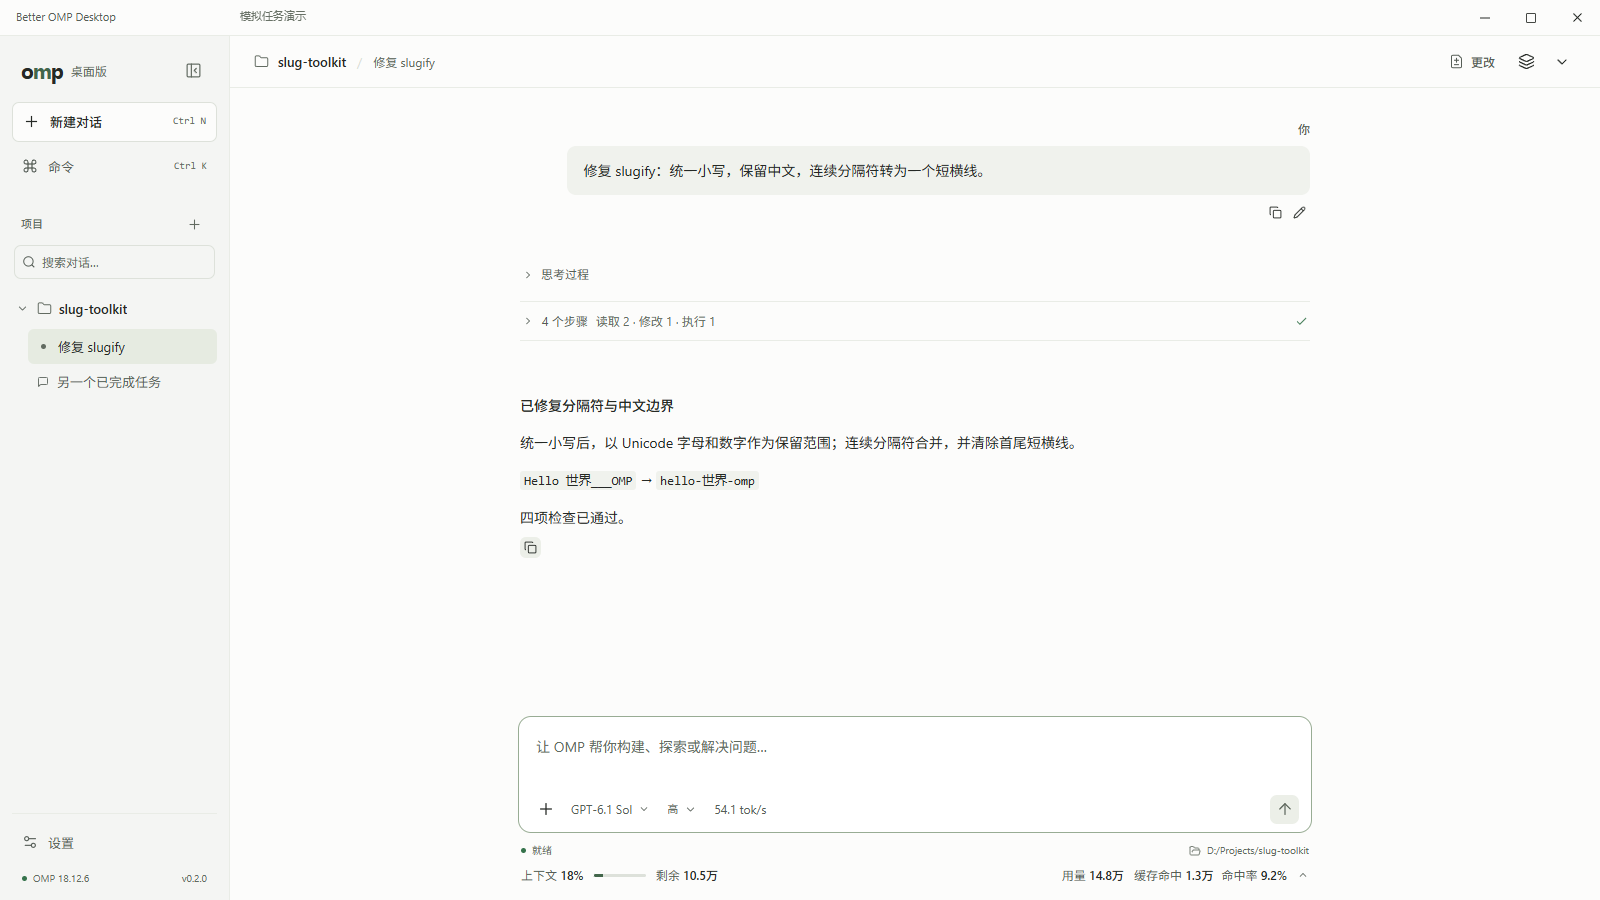
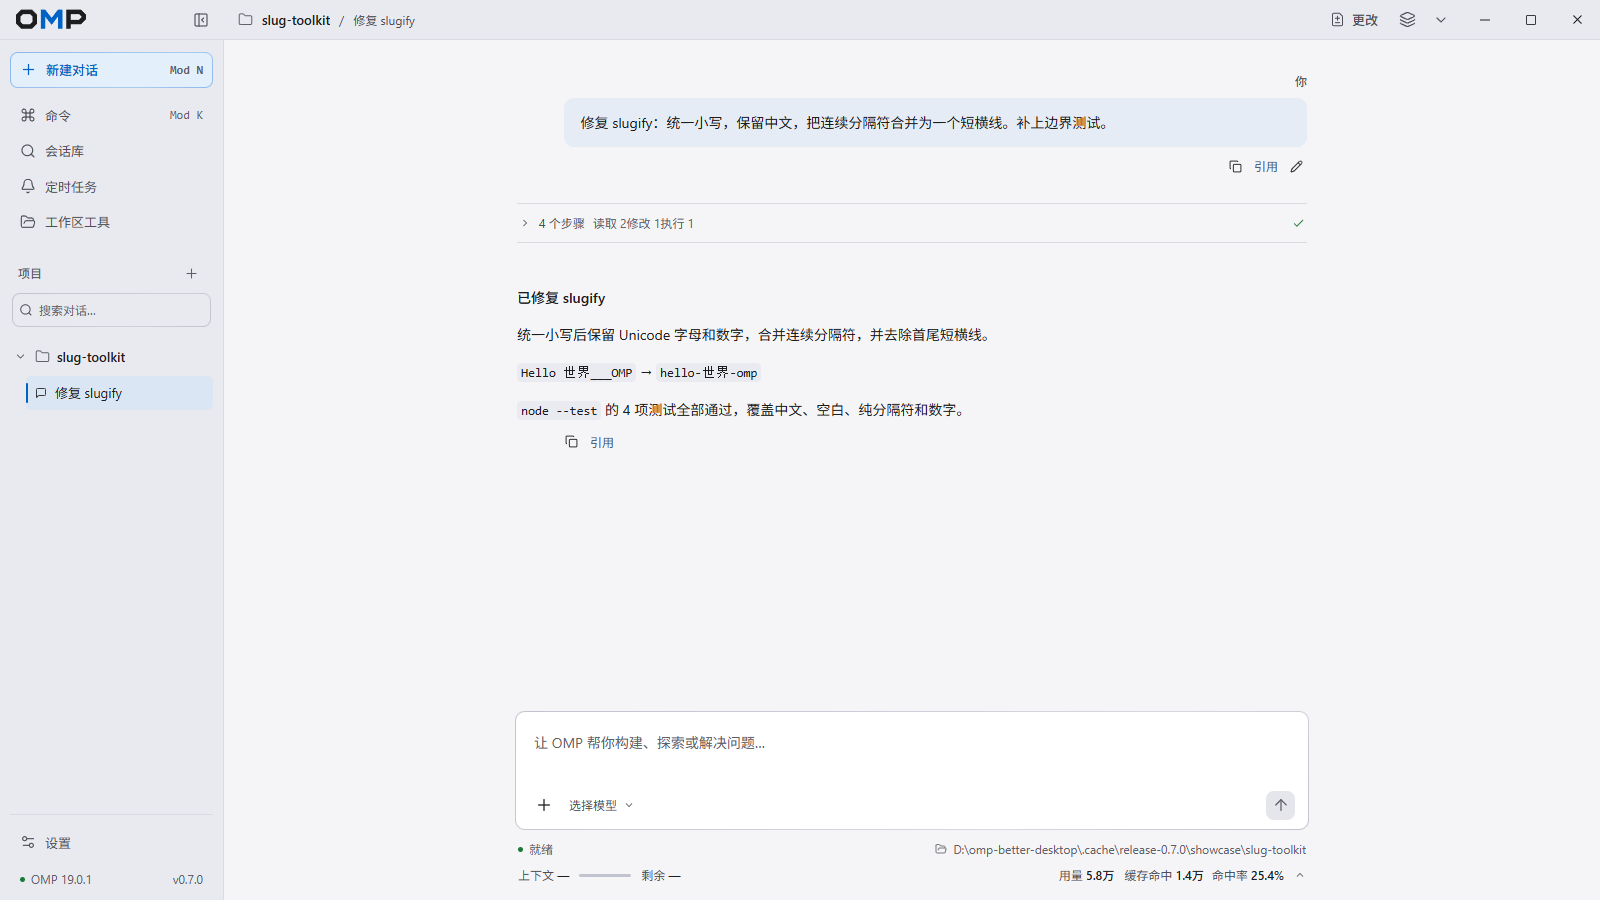
文档：更新 0.7.0 工作台与会话界面预览

diff --git a/README.md b/README.md
@@ -6,11 +6,15 @@
 
 ## 界面预览
 
-模拟任务：修复 `slugify`，统一小写、保留中文、合并连续分隔符，再检查边界案例。例如将 `Hello 世界___OMP` 转为 `hello-世界-omp`。以下为实际界面中的演示任务和用量数据，截图原始尺寸均为 **1600×900**。
+以下截图来自 0.7.0 桌面应用，使用隔离的演示项目和会话记录，原始尺寸均为 **1600×900**。
 
-对话主轴将项目与会话放在左侧，答复居中；模型、思考程度、原生速率与用量靠近输入区。
+默认浅色工作台将项目与会话放在左侧，欢迎区居中显示 π 和任务建议。
 
-![浅色对话界面，展示模拟任务结果、原生速率和会话用量](.github/images/conversation-1600x900.png)
+![默认浅色工作台，展示 OMP 字标、居中的 π 和任务建议](.github/images/welcome-1600x900.png)
+
+演示任务修复 `slugify`，统一小写、保留中文并合并连续分隔符，将 `Hello 世界___OMP` 转为 `hello-世界-omp`。
+
+![浅色对话界面，展示示例任务结果与收起的工具步骤](.github/images/conversation-1600x900.png)
 
 连续动作收为一行步骤摘要，点击读取、修改或命令可展开详情；差异和原始输出按需显示。
 
@@ -25,7 +29,7 @@
 在本仓库 [Releases](https://github.com/GuraQwQ/omp-better-desktop/releases) 下载 Windows x64 发行包及 `SHA256SUMS`，用 PowerShell 核对：
 
 ```powershell
-Get-FileHash -LiteralPath './Better-OMP-Desktop_0.6.5_windows-x64.exe' -Algorithm SHA256
+Get-FileHash -LiteralPath './Better-OMP-Desktop_0.7.0_windows-x64.exe' -Algorithm SHA256
 ```
 
 文件名以实际附件为准。安装器未签名，Windows 可能提示发布者未知。安装包内置匹配的 OMP；需要系统已有 WebView2，或自行提供解压到其他盘的 Fixed Version WebView2。首次启动选择数据目录，应用数据与安装目录分开管理。安装与更新说明见 [发行页](https://github.com/GuraQwQ/omp-better-desktop/releases)。
@@ -42,7 +46,7 @@ Get-FileHash -LiteralPath './Better-OMP-Desktop_0.6.5_windows-x64.exe' -Algorith
 - 保存的对话按本地日期分组；切换会话恢复阅读位置，后台任务完成提供未读标记和可关闭的系统通知。
 - 队列消息可取回草稿及附件；输入 `@` 搜索项目文件，使用方向键与 Enter/Tab 插入路径，也支持未初始化 Git 的项目。
 - 输入 `/` 搜索原生命令、技能与扩展，描述随界面语言切换；任务清单显示在对话左侧独立小板中，可展开或收起，完成后自动隐藏，历史可在上下文进阶中追溯。
-- 外观支持丰富、正常、减少三档动画，默认丰富；渐变、过渡和交互反馈随档位即时调整并保存。
+- 默认使用 Obsidian Studio 浅色。支持浅色、深色、跟随系统，以及鼠尾草、Claude、OMP 官方配色与自定义强调色。动画支持丰富、正常、减少三档，默认丰富。
 - 审阅面板可按用户回合查看已记录的文件工具操作，工作区 Git 差异单独查看。
 - 工具步骤以轻量摘要呈现；读取、修改与命令整行可展开路径、行号、差异和退出状态，保留原始输出，重内容按需挂载。
 - 显示上下文剩余、累计用量、缓存命中和 OMP 原生平滑生成速率；活跃工具行共享实时速率，统计详情可展开查看。
